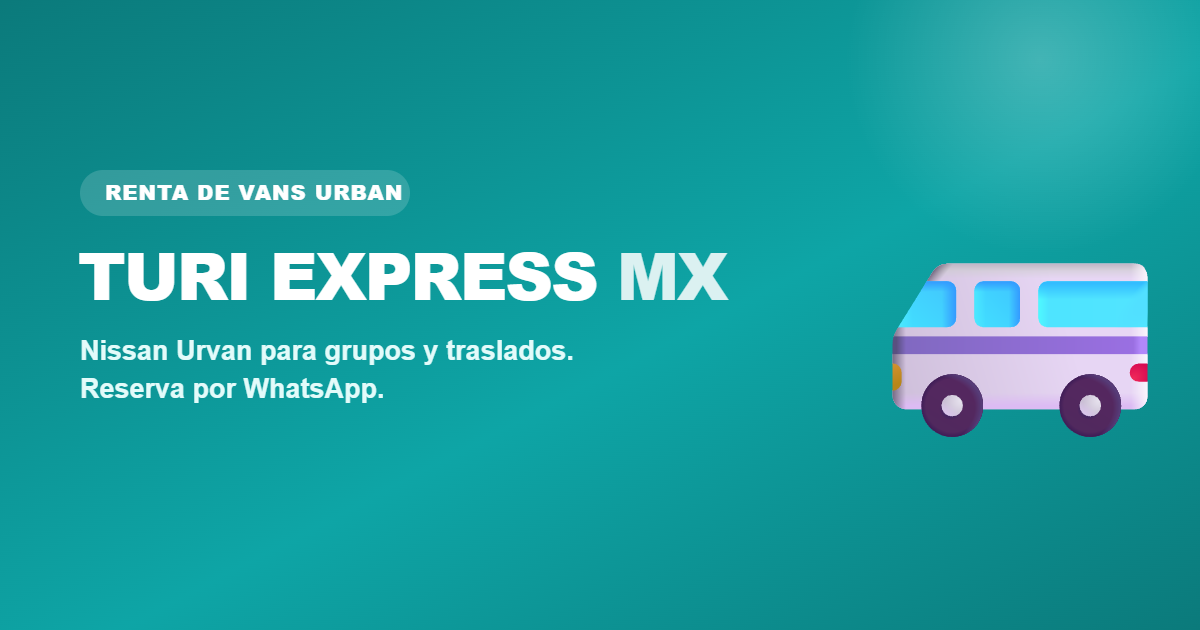
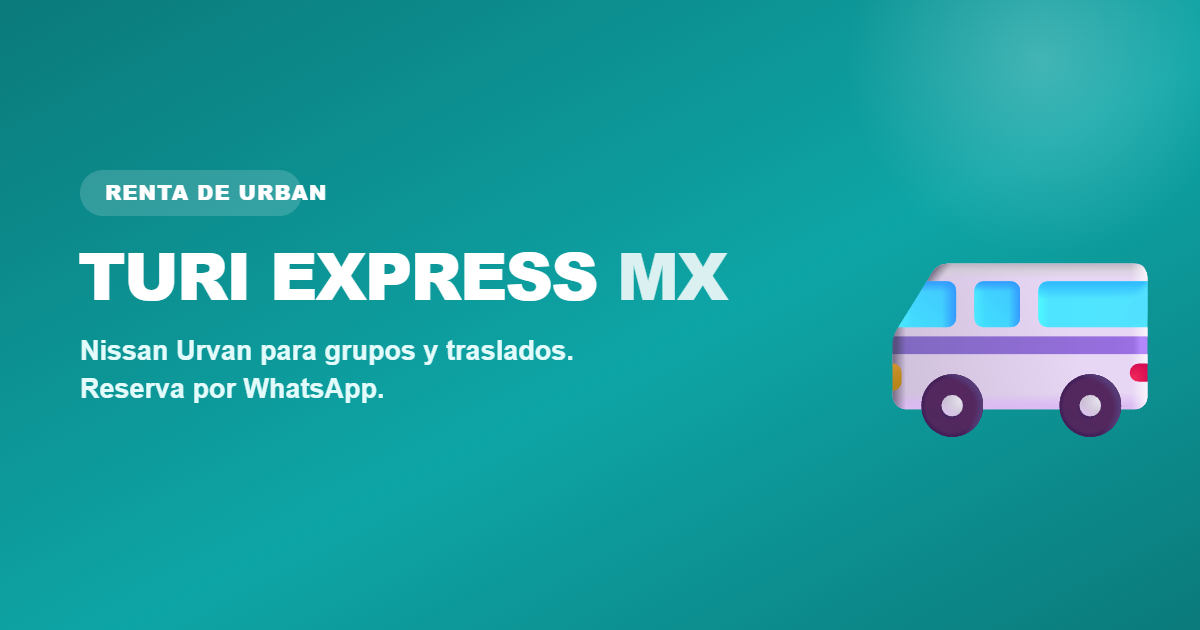
Stop disclosing fleet size and fix invisible outline-button hover
The business does not want to advertise how many units it owns, so the
count is removed everywhere it leaked: the hero tag, the fleet heading
and its three numbered cards, the availability copy, the calendar
tooltips and the terms of service. The fleet section becomes a single
card describing the model, which also drops three identical placeholder
cards. The word "vans" is dropped site-wide, including the baked-in text
of the social preview image.

Also fixes the outline WhatsApp button: .button:hover painted the
background teal while .button-outline pinned the text teal with
!important, so the label vanished on hover.

Changed region(s): [[0.185, 0.2714, 0.3392, 0.3619]]

diff --git a/styles.css b/styles.css
@@ -1,4 +1,4 @@
-:root{--teal:#0b7a7b;--bright:#0ea5a6;--ink:#102426;--muted:#4b6668;--pale:#f4fdfd;--line:#dceeee}*{box-sizing:border-box}html{scroll-behavior:smooth}body{margin:0;font-family:Manrope,Arial,sans-serif;color:var(--ink);line-height:1.55;-webkit-user-select:none;user-select:none}input,textarea{-webkit-user-select:text;user-select:text}img{-webkit-user-drag:none;user-drag:none}.site-header{position:sticky;top:0;z-index:10;display:flex;align-items:center;justify-content:space-between;padding:17px clamp(20px,4vw,56px);background:#fffffff0;backdrop-filter:blur(10px);border-bottom:1px solid var(--line)}.brand{font-size:20px;font-weight:800;letter-spacing:.4px;color:var(--teal);text-decoration:none}.brand span{color:var(--ink)}.main-nav{display:flex;align-items:center;gap:24px}.main-nav a{color:var(--ink);text-decoration:none;font-size:14px;font-weight:700}.main-nav a:hover{color:var(--teal)}.menu-button{display:none;border:0;background:none;font-size:24px}.section-shell{max-width:1200px;margin:auto;padding:78px 28px}.hero{display:grid;grid-template-columns:1.12fr .88fr;align-items:center;gap:64px;min-height:580px}.eyebrow{display:inline-block;margin:0 0 16px;padding:6px 13px;background:#e3f7f7;border-radius:999px;color:var(--teal);font-size:12px;font-weight:800;letter-spacing:.4px}.hero h1{font-size:clamp(40px,5vw,64px);line-height:1.04;letter-spacing:-2px;margin:0 0 20px}.lead,.section-heading>p{color:var(--muted);font-size:17px;max-width:640px}.actions{display:flex;flex-wrap:wrap;gap:12px;margin-top:30px}.button{display:inline-block;border:0;border-radius:999px;background:var(--bright);color:white!important;padding:14px 21px;font:700 14px Manrope;text-decoration:none;cursor:pointer}.button:hover{background:var(--teal)}.button:disabled{background:#fff;border:1.5px solid #9fcfd0;color:var(--ink)!important;cursor:not-allowed}.button:disabled:hover{background:#fff}.button-outline{color:var(--teal)!important;background:white;border:2px solid var(--bright);padding:12px 19px}.button-small{padding:10px 17px}.hero-visual{min-height:390px;border-radius:28px;padding:36px;display:flex;flex-direction:column;align-items:center;justify-content:center;background:linear-gradient(135deg,#c9f1ef,#f5ffff 55%,#a9e5e1);box-shadow:0 22px 54px #08787926;color:var(--teal);overflow:hidden}.van{font-size:160px;filter:drop-shadow(0 20px 13px #0b7a7b33)}.hero-visual p{font-weight:800;text-align:center}.fleet-section{padding-top:36px}.section-heading h2{margin:0 0 8px;font-size:34px;letter-spacing:-1px}.cards{display:grid;grid-template-columns:repeat(3,1fr);gap:22px;margin-top:34px}.card{border:1px solid var(--line);border-radius:20px;padding:22px;box-shadow:0 8px 28px #0e2a2c0a}.vehicle-icon{display:grid;place-items:center;height:150px;margin:-22px -22px 18px;border-radius:20px 20px 0 0;background:#e9f9f8;font-size:76px}.card h3{margin:0;font-size:19px}.card>p{margin:4px 0 14px;color:var(--muted);font-size:14px}.card ul{padding:0;list-style:none;color:var(--muted);font-size:14px}.card li{margin:7px 0}.card li:before{content:'✓';color:var(--teal);font-weight:800;margin-right:8px}.card a{display:block;margin-top:18px;padding:11px;border-radius:9px;background:#e3f7f7;color:var(--teal);font-size:14px;font-weight:800;text-align:center;text-decoration:none}.booking-section{background:linear-gradient(135deg,#effdfc,#d9f6f4)}.booking-section .section-shell{padding-top:70px}.booking-grid{display:grid;grid-template-columns:1.1fr .9fr;gap:24px;margin-top:34px;align-items:start}.calendar-card{background:#ffffff8c;backdrop-filter:blur(18px);-webkit-backdrop-filter:blur(18px);border:1px solid #0ea5a640;border-radius:28px;padding:26px;box-shadow:0 10px 34px #0b7a7b1c}.booking-form{background:#fff;border-radius:22px;padding:26px;box-shadow:0 10px 34px #0b7a7b1c}.calendar-top{display:flex;justify-content:space-between;align-items:center;margin-bottom:18px}.calendar-top h3{margin:0;text-transform:capitalize}.calendar-top button{width:36px;height:36px;border:1px solid var(--line);background:#fff;border-radius:9px;color:var(--teal);font-size:24px;cursor:pointer}.weekdays,.calendar-days{display:grid;grid-template-columns:repeat(7,1fr);gap:7px}.weekdays span{text-align:center;color:var(--muted);font-size:11px;font-weight:800}.day{aspect-ratio:1;border:1px solid #d9eded;border-radius:10px;background:white;color:var(--ink);font:700 13px Manrope;cursor:pointer}.day:hover:not(:disabled){border-color:var(--bright);background:#e8fafa}.day:disabled{opacity:.38;cursor:not-allowed}.day.selected{background:var(--bright);border-color:var(--teal);color:#fff}.day.in-range{background:#dff7f6}.day.blank{visibility:hidden}.calendar-legend{display:flex;gap:16px;flex-wrap:wrap;margin-top:18px;font-size:12px;color:var(--muted)}.calendar-legend span{display:flex;align-items:center;gap:6px}.dot{width:10px;height:10px;border-radius:50%;display:inline-block}.dot-free{background:#fff;border:1px solid #d9eded}.dot-full{background:var(--bright)}.dot-selected{background:#b7e9e7;border:1px solid var(--bright)}.booking-form h3{margin:0 0 4px;font-size:20px}.form-hint{margin:0 0 18px;color:var(--muted);font-size:13px}.text-link{display:inline-block;margin:0 0 16px;border:0;background:none;color:var(--teal);font:700 12px Manrope;text-decoration:underline;cursor:pointer;padding:0}.date-summary{display:grid;grid-template-columns:1fr 1fr;gap:10px;margin-bottom:18px}.date-summary div{padding:10px;border-radius:9px;background:var(--pale)}.date-summary small{display:block;color:var(--muted);font-weight:800;font-size:10px}.date-summary strong{font-size:13px}.booking-form label{display:block;margin:12px 0;color:var(--ink);font-size:13px;font-weight:800}.booking-form input{display:block;width:100%;margin-top:5px;padding:11px 12px;border:1px solid #cfe4e5;border-radius:9px;font:400 14px Manrope}.booking-form input:focus{outline:3px solid #0ea5a633;border-color:var(--bright)}.booking-form .button{width:100%;margin-top:8px}.text-button{display:block;margin:14px auto 0;border:0;background:none;color:var(--teal);font:700 12px Manrope;text-decoration:underline;cursor:pointer}.form-message{min-height:18px;margin:7px 0;color:#b23b3b;font-size:12px;font-weight:700}.fine-print{color:var(--muted);font-size:11px;text-align:center}.requirements-grid{display:grid;grid-template-columns:repeat(4,1fr);gap:16px;margin-top:30px}.requirements-grid article,.policy{border:1px solid var(--line);border-radius:15px;padding:20px}.requirements-grid h3,.policy h3{margin:0 0 6px;color:var(--teal);font-size:15px}.requirements-grid p,.policy p{margin:0;color:var(--muted);font-size:14px}.policy{margin-top:22px}footer{display:grid;grid-template-columns:1.6fr 1fr 1.1fr 1.1fr;gap:26px;padding:55px max(28px,calc((100% - 1144px)/2));background:#102426;color:white}footer .brand{color:#69ceca}footer .brand span{color:white}footer p{margin:8px 0;color:#a7cccd;font-size:14px}footer h3{margin:0;font-size:14px}footer small{grid-column:1/-1;padding-top:18px;border-top:1px solid #284749;color:#87a9aa;font-size:12px}@media(max-width:800px){.menu-button{display:block}.main-nav{display:none;position:absolute;top:100%;right:15px;left:15px;align-items:stretch;flex-direction:column;gap:0;padding:10px;background:#fff;border:1px solid var(--line);border-radius:12px;box-shadow:0 12px 30px #10242622}.main-nav.open{display:flex}.main-nav a{padding:10px}.hero,.booking-grid{grid-template-columns:1fr;gap:30px}.hero{min-height:0}.hero-visual{min-height:260px}.van{font-size:110px}.cards{grid-template-columns:1fr}.requirements-grid{grid-template-columns:1fr 1fr}footer{grid-template-columns:1fr}.section-shell{padding:56px 20px}}@media(max-width:430px){.hero h1{font-size:40px}.requirements-grid{grid-template-columns:1fr}.calendar-card,.booking-form{padding:18px}.day{font-size:11px}}
+:root{--teal:#0b7a7b;--bright:#0ea5a6;--ink:#102426;--muted:#4b6668;--pale:#f4fdfd;--line:#dceeee}*{box-sizing:border-box}html{scroll-behavior:smooth}body{margin:0;font-family:Manrope,Arial,sans-serif;color:var(--ink);line-height:1.55;-webkit-user-select:none;user-select:none}input,textarea{-webkit-user-select:text;user-select:text}img{-webkit-user-drag:none;user-drag:none}.site-header{position:sticky;top:0;z-index:10;display:flex;align-items:center;justify-content:space-between;padding:17px clamp(20px,4vw,56px);background:#fffffff0;backdrop-filter:blur(10px);border-bottom:1px solid var(--line)}.brand{font-size:20px;font-weight:800;letter-spacing:.4px;color:var(--teal);text-decoration:none}.brand span{color:var(--ink)}.main-nav{display:flex;align-items:center;gap:24px}.main-nav a{color:var(--ink);text-decoration:none;font-size:14px;font-weight:700}.main-nav a:hover{color:var(--teal)}.menu-button{display:none;border:0;background:none;font-size:24px}.section-shell{max-width:1200px;margin:auto;padding:78px 28px}.hero{display:grid;grid-template-columns:1.12fr .88fr;align-items:center;gap:64px;min-height:580px}.eyebrow{display:inline-block;margin:0 0 16px;padding:6px 13px;background:#e3f7f7;border-radius:999px;color:var(--teal);font-size:12px;font-weight:800;letter-spacing:.4px}.hero h1{font-size:clamp(40px,5vw,64px);line-height:1.04;letter-spacing:-2px;margin:0 0 20px}.lead,.section-heading>p{color:var(--muted);font-size:17px;max-width:640px}.actions{display:flex;flex-wrap:wrap;gap:12px;margin-top:30px}.button{display:inline-block;border:0;border-radius:999px;background:var(--bright);color:white!important;padding:14px 21px;font:700 14px Manrope;text-decoration:none;cursor:pointer}.button:hover{background:var(--teal)}.button:disabled{background:#fff;border:1.5px solid #9fcfd0;color:var(--ink)!important;cursor:not-allowed}.button:disabled:hover{background:#fff}.button-outline{color:var(--teal)!important;background:white;border:2px solid var(--bright);padding:12px 19px}.button-outline:hover{background:var(--teal);border-color:var(--teal);color:#fff!important}.button-small{padding:10px 17px}.hero-visual{min-height:390px;border-radius:28px;padding:36px;display:flex;flex-direction:column;align-items:center;justify-content:center;background:linear-gradient(135deg,#c9f1ef,#f5ffff 55%,#a9e5e1);box-shadow:0 22px 54px #08787926;color:var(--teal);overflow:hidden}.van{font-size:160px;filter:drop-shadow(0 20px 13px #0b7a7b33)}.hero-visual p{font-weight:800;text-align:center}.fleet-section{padding-top:36px}.section-heading h2{margin:0 0 8px;font-size:34px;letter-spacing:-1px}.fleet-card{display:grid;grid-template-columns:.85fr 1.15fr;margin-top:34px;border:1px solid var(--line);border-radius:22px;overflow:hidden;box-shadow:0 8px 28px #0e2a2c0a}.fleet-visual{display:grid;place-items:center;min-height:280px;background:#e9f9f8;font-size:130px}.fleet-details{padding:34px}.fleet-details h3{margin:0 0 8px;font-size:24px}.fleet-details>p{margin:0 0 20px;color:var(--muted);font-size:15px;max-width:52ch}.fleet-details ul{display:grid;grid-template-columns:1fr 1fr;gap:2px 18px;margin:0 0 26px;padding:0;list-style:none;color:var(--muted);font-size:15px}.fleet-details li{margin:6px 0}.fleet-details li:before{content:'✓';color:var(--teal);font-weight:800;margin-right:8px}.booking-section{background:linear-gradient(135deg,#effdfc,#d9f6f4)}.booking-section .section-shell{padding-top:70px}.booking-grid{display:grid;grid-template-columns:1.1fr .9fr;gap:24px;margin-top:34px;align-items:start}.calendar-card{background:#ffffff8c;backdrop-filter:blur(18px);-webkit-backdrop-filter:blur(18px);border:1px solid #0ea5a640;border-radius:28px;padding:26px;box-shadow:0 10px 34px #0b7a7b1c}.booking-form{background:#fff;border-radius:22px;padding:26px;box-shadow:0 10px 34px #0b7a7b1c}.calendar-top{display:flex;justify-content:space-between;align-items:center;margin-bottom:18px}.calendar-top h3{margin:0;text-transform:capitalize}.calendar-top button{width:36px;height:36px;border:1px solid var(--line);background:#fff;border-radius:9px;color:var(--teal);font-size:24px;cursor:pointer}.weekdays,.calendar-days{display:grid;grid-template-columns:repeat(7,1fr);gap:7px}.weekdays span{text-align:center;color:var(--muted);font-size:11px;font-weight:800}.day{aspect-ratio:1;border:1px solid #d9eded;border-radius:10px;background:white;color:var(--ink);font:700 13px Manrope;cursor:pointer}.day:hover:not(:disabled){border-color:var(--bright);background:#e8fafa}.day:disabled{opacity:.38;cursor:not-allowed}.day.selected{background:var(--bright);border-color:var(--teal);color:#fff}.day.in-range{background:#dff7f6}.day.blank{visibility:hidden}.calendar-legend{display:flex;gap:16px;flex-wrap:wrap;margin-top:18px;font-size:12px;color:var(--muted)}.calendar-legend span{display:flex;align-items:center;gap:6px}.dot{width:10px;height:10px;border-radius:50%;display:inline-block}.dot-free{background:#fff;border:1px solid #d9eded}.dot-full{background:var(--bright)}.dot-selected{background:#b7e9e7;border:1px solid var(--bright)}.booking-form h3{margin:0 0 4px;font-size:20px}.form-hint{margin:0 0 18px;color:var(--muted);font-size:13px}.text-link{display:inline-block;margin:0 0 16px;border:0;background:none;color:var(--teal);font:700 12px Manrope;text-decoration:underline;cursor:pointer;padding:0}.date-summary{display:grid;grid-template-columns:1fr 1fr;gap:10px;margin-bottom:18px}.date-summary div{padding:10px;border-radius:9px;background:var(--pale)}.date-summary small{display:block;color:var(--muted);font-weight:800;font-size:10px}.date-summary strong{font-size:13px}.booking-form label{display:block;margin:12px 0;color:var(--ink);font-size:13px;font-weight:800}.booking-form input{display:block;width:100%;margin-top:5px;padding:11px 12px;border:1px solid #cfe4e5;border-radius:9px;font:400 14px Manrope}.booking-form input:focus{outline:3px solid #0ea5a633;border-color:var(--bright)}.booking-form .button{width:100%;margin-top:8px}.text-button{display:block;margin:14px auto 0;border:0;background:none;color:var(--teal);font:700 12px Manrope;text-decoration:underline;cursor:pointer}.form-message{min-height:18px;margin:7px 0;color:#b23b3b;font-size:12px;font-weight:700}.fine-print{color:var(--muted);font-size:11px;text-align:center}.requirements-grid{display:grid;grid-template-columns:repeat(4,1fr);gap:16px;margin-top:30px}.requirements-grid article,.policy{border:1px solid var(--line);border-radius:15px;padding:20px}.requirements-grid h3,.policy h3{margin:0 0 6px;color:var(--teal);font-size:15px}.requirements-grid p,.policy p{margin:0;color:var(--muted);font-size:14px}.policy{margin-top:22px}footer{display:grid;grid-template-columns:1.6fr 1fr 1.1fr 1.1fr;gap:26px;padding:55px max(28px,calc((100% - 1144px)/2));background:#102426;color:white}footer .brand{color:#69ceca}footer .brand span{color:white}footer p{margin:8px 0;color:#a7cccd;font-size:14px}footer h3{margin:0;font-size:14px}footer small{grid-column:1/-1;padding-top:18px;border-top:1px solid #284749;color:#87a9aa;font-size:12px}@media(max-width:800px){.menu-button{display:block}.main-nav{display:none;position:absolute;top:100%;right:15px;left:15px;align-items:stretch;flex-direction:column;gap:0;padding:10px;background:#fff;border:1px solid var(--line);border-radius:12px;box-shadow:0 12px 30px #10242622}.main-nav.open{display:flex}.main-nav a{padding:10px}.hero,.booking-grid{grid-template-columns:1fr;gap:30px}.hero{min-height:0}.hero-visual{min-height:260px}.van{font-size:110px}.fleet-card{grid-template-columns:1fr}.fleet-visual{min-height:200px;font-size:100px}.fleet-details{padding:26px}.requirements-grid{grid-template-columns:1fr 1fr}footer{grid-template-columns:1fr}.section-shell{padding:56px 20px}}@media(max-width:430px){.hero h1{font-size:40px}.requirements-grid{grid-template-columns:1fr}.calendar-card,.booking-form{padding:18px}.day{font-size:11px}}
 .day.full{background:var(--bright);border-color:var(--teal);color:#fff;opacity:.55}
 .main-nav .staff-open{display:inline;margin:0;font:700 14px Manrope;color:var(--ink);text-decoration:none}
 .main-nav .staff-open:hover{color:var(--teal)}
@@ -43,7 +43,7 @@
 .staff-row-actions .button{padding:8px 14px;font-size:12px}
 .button-danger{border:0;background:#fdecec;color:#b23b3b;padding:8px 14px;border-radius:9px;font:700 12px Manrope;cursor:pointer}
 .badge-pending{display:inline-block;background:#fff3d6;color:#8a5a00;font-size:11px;font-weight:800;padding:2px 8px;border-radius:999px;margin-left:6px}
-@media(max-width:480px){.staff-fields-grid{grid-template-columns:1fr}.modal-panel{padding:20px}}
+@media(max-width:480px){.staff-fields-grid{grid-template-columns:1fr}.modal-panel{padding:20px}.fleet-details ul{grid-template-columns:1fr}}
 .legal-page{max-width:780px;margin:auto;padding:64px 28px 80px}
 .legal-page h1{margin:0 0 6px;font-size:clamp(32px,4vw,44px);letter-spacing:-1.5px}
 .legal-updated{margin:0 0 28px;color:var(--muted);font-size:13px;font-weight:700}

diff --git a/index.html b/index.html
@@ -14,7 +14,7 @@
   <meta property="og:type" content="website">
   <meta property="og:site_name" content="Turi Express MX">
   <meta property="og:title" content="Turi Express MX | Renta de Nissan Urvan">
-  <meta property="og:description" content="Renta vans Nissan Urvan para grupos, traslados y viajes de varios días en México. Confirma tu solicitud por WhatsApp.">
+  <meta property="og:description" content="Renta de Nissan Urvan para grupos, traslados y viajes de varios días en México. Confirma tu solicitud por WhatsApp.">
   <meta property="og:url" content="https://turiexpress.mx/">
   <meta property="og:image" content="https://turiexpress.mx/og-image.png">
   <meta property="og:image:width" content="1200">
@@ -23,7 +23,7 @@
 
   <meta name="twitter:card" content="summary_large_image">
   <meta name="twitter:title" content="Turi Express MX | Renta de Nissan Urvan">
-  <meta name="twitter:description" content="Renta vans Nissan Urvan para grupos, traslados y viajes de varios días en México. Confirma tu solicitud por WhatsApp.">
+  <meta name="twitter:description" content="Renta de Nissan Urvan para grupos, traslados y viajes de varios días en México. Confirma tu solicitud por WhatsApp.">
   <meta name="twitter:image" content="https://turiexpress.mx/og-image.png">
 
   <link rel="preconnect" href="https://fonts.googleapis.com">
@@ -45,25 +45,29 @@
   <main>
     <section id="inicio" class="hero section-shell">
       <div class="hero-copy">
-        <p class="eyebrow">RENTA DE VANS URBAN · 3 UNIDADES</p>
+        <p class="eyebrow">RENTA DE URBAN</p>
         <h1>Tu Nissan Urvan, lista para el próximo viaje.</h1>
-        <p class="lead">Renta vans para grupos, traslados y viajes de varios días. Elige tus fechas y confirma tu solicitud directamente por WhatsApp.</p>
+        <p class="lead">Renta tu Nissan Urvan para grupos, traslados y viajes de varios días. Elige tus fechas y confirma tu solicitud directamente por WhatsApp.</p>
         <div class="actions"><a class="button" href="#disponibilidad">Ver disponibilidad</a><a class="button button-outline whatsapp-link" data-message="Hola, quisiera cotizar una Nissan Urvan." target="_blank" rel="noopener">Escríbenos por WhatsApp</a></div>
       </div>
       <div class="hero-visual" role="img" aria-label="Nissan Urvan para renta"><div class="van">🚐</div><p>Traslados cómodos para hasta 15 pasajeros</p></div>
     </section>
 
     <section id="flota" class="section-shell fleet-section">
-      <div class="section-heading"><div><p class="eyebrow">NUESTRA FLOTA</p><h2>Tres unidades listas para rodar</h2><p>Las Nissan Urvan cuentan con espacio y comodidad para cada traslado.</p></div></div>
-      <div class="cards">
-        <article class="card"><div class="vehicle-icon">🚐</div><h3>Nissan Urvan 01</h3><p>Disponible para renta</p><ul><li>Hasta 15 pasajeros</li><li>Aire acondicionado</li><li>Transmisión manual</li><li>Bluetooth</li></ul><a href="#disponibilidad">Consultar fechas</a></article>
-        <article class="card"><div class="vehicle-icon">🚐</div><h3>Nissan Urvan 02</h3><p>Disponible para renta</p><ul><li>Hasta 15 pasajeros</li><li>Aire acondicionado</li><li>Transmisión manual</li><li>Bluetooth</li></ul><a href="#disponibilidad">Consultar fechas</a></article>
-        <article class="card"><div class="vehicle-icon">🚐</div><h3>Nissan Urvan 03</h3><p>Disponible para renta</p><ul><li>Hasta 15 pasajeros</li><li>Aire acondicionado</li><li>Transmisión manual</li><li>Bluetooth</li></ul><a href="#disponibilidad">Consultar fechas</a></article>
-      </div>
+      <div class="section-heading"><div><p class="eyebrow">NUESTRA FLOTA</p><h2>Nissan Urvan, lista para tu grupo</h2><p>Espacio, comodidad y aire acondicionado para cada traslado.</p></div></div>
+      <article class="fleet-card">
+        <div class="fleet-visual" role="img" aria-label="Nissan Urvan">🚐</div>
+        <div class="fleet-details">
+          <h3>Nissan Urvan</h3>
+          <p>Nuestra flota está integrada por unidades Nissan Urvan, ideales para grupos, traslados al aeropuerto y viajes de varios días.</p>
+          <ul><li>Hasta 15 pasajeros</li><li>Aire acondicionado</li><li>Transmisión manual</li><li>Bluetooth</li></ul>
+          <a class="button" href="#disponibilidad">Consultar fechas</a>
+        </div>
+      </article>
     </section>
 
     <section id="disponibilidad" class="booking-section">
-      <div class="section-shell"><div class="section-heading"><p class="eyebrow">DISPONIBILIDAD</p><h2>Disponibilidad y solicitud de renta</h2><p>Las 3 unidades son la misma Nissan Urvan. Revisa el calendario y elige tus fechas: si una está ocupada, te asignamos otra libre automáticamente.</p></div>
+      <div class="section-shell"><div class="section-heading"><p class="eyebrow">DISPONIBILIDAD</p><h2>Disponibilidad y solicitud de renta</h2><p>Todas nuestras unidades son Nissan Urvan. Revisa el calendario y elige tus fechas: si una está ocupada, te asignamos otra libre automáticamente.</p></div>
         <div class="booking-grid"><div class="calendar-card"><div class="calendar-top"><button id="previous-month" aria-label="Mes anterior">‹</button><h3 id="calendar-title"></h3><button id="next-month" aria-label="Mes siguiente">›</button></div><div class="weekdays"><span>Lun</span><span>Mar</span><span>Mié</span><span>Jue</span><span>Vie</span><span>Sáb</span><span>Dom</span></div><div id="calendar-days" class="calendar-days" aria-live="polite"></div><div class="calendar-legend"><span><i class="dot dot-free"></i>Disponible</span><span><i class="dot dot-full"></i>Ocupado</span><span><i class="dot dot-selected"></i>Tu selección</span></div></div>
           <form id="booking-form" class="booking-form"><h3>Solicita tu Nissan Urvan</h3><p class="form-hint">Da clic en el calendario: primero tu fecha de inicio, luego la de fin.</p><div class="date-summary"><div><small>INICIO</small><strong id="start-display">Elige una fecha</strong></div><div><small>FIN</small><strong id="end-display">Elige una fecha</strong></div></div><button id="clear-dates" class="text-link" type="button">Elegir de nuevo</button><label>Tu nombre<input id="name" name="name" autocomplete="name" placeholder="Ej. Juan Pérez" required></label><label>Tu teléfono (WhatsApp)<input id="phone" name="phone" autocomplete="tel" inputmode="tel" placeholder="Ej. 33 1234 5678" required></label><p id="form-message" class="form-message" role="alert"></p><button class="button" type="submit" id="submit-request" disabled>Apartar y enviar por WhatsApp</button><p id="submit-hint" class="fine-print">Elige tus fechas y escribe tu nombre y teléfono.</p><p class="consent-note">Al enviar tu solicitud aceptas nuestros <a href="terminos.html">Términos y Condiciones</a> y el <a href="aviso-privacidad.html">Aviso de Privacidad</a>. Usamos tu nombre y teléfono solo para confirmar tu renta, no los compartimos con terceros y los eliminamos 12 meses después.</p></form></div>
       </div>
@@ -71,7 +75,7 @@
 
     <section id="requisitos" class="section-shell requirements"><div class="section-heading"><p class="eyebrow">ANTES DE RENTAR</p><h2>Requisitos sencillos, viaje tranquilo</h2></div><div class="requirements-grid"><article><h3>Edad mínima</h3><p>25 años cumplidos.</p></article><article><h3>Licencia vigente</h3><p>Licencia de conducir no vencida.</p></article><article><h3>Identificación oficial</h3><p>INE o pasaporte vigente.</p></article><article><h3>Depósito en garantía</h3><p>Reembolsable al devolver la unidad.</p></article></div><div class="policy"><h3>Políticas de uso</h3><p>La unidad se entrega y se devuelve con el mismo nivel de combustible. El kilometraje es libre dentro del área metropolitana. Las fechas y horario de entrega se confirman por WhatsApp.</p></div></section>
   </main>
-  <footer id="contacto"><div><a class="brand" href="#inicio">TURI EXPRESS <span>MX</span></a><p>Renta de vans Nissan Urvan para grupos y traslados.</p></div><div><h3>Horario</h3><p>Lun–Dom · 8:00–20:00</p></div><div><h3>¿Listo para viajar?</h3><a class="button whatsapp-link" data-message="Hola, quisiera información sobre la renta de una Nissan Urvan." target="_blank" rel="noopener">Hablar por WhatsApp</a></div><div><h3>Legal</h3><p><a class="footer-link" href="aviso-privacidad.html">Aviso de privacidad</a></p><p><a class="footer-link" href="terminos.html">Términos y condiciones</a></p><p><button type="button" class="text-button staff-open footer-staff-open">Acceso de personal</button></p></div><small>© <span id="year"></span> TURI EXPRESS MX. Todos los derechos reservados.</small></footer>
+  <footer id="contacto"><div><a class="brand" href="#inicio">TURI EXPRESS <span>MX</span></a><p>Renta de Nissan Urvan para grupos y traslados.</p></div><div><h3>Horario</h3><p>Lun–Dom · 8:00–20:00</p></div><div><h3>¿Listo para viajar?</h3><a class="button whatsapp-link" data-message="Hola, quisiera información sobre la renta de una Nissan Urvan." target="_blank" rel="noopener">Hablar por WhatsApp</a></div><div><h3>Legal</h3><p><a class="footer-link" href="aviso-privacidad.html">Aviso de privacidad</a></p><p><a class="footer-link" href="terminos.html">Términos y condiciones</a></p><p><button type="button" class="text-button staff-open footer-staff-open">Acceso de personal</button></p></div><small>© <span id="year"></span> TURI EXPRESS MX. Todos los derechos reservados.</small></footer>
 
   <div id="staff-modal" class="modal-overlay" hidden>
     <div class="modal-panel">

diff --git a/terminos.html b/terminos.html
@@ -31,10 +31,10 @@
     <h1>Términos y Condiciones</h1>
     <p class="legal-updated">Última actualización: 16 de septiembre de 2026</p>
 
-    <p class="legal-lead">Estos términos aplican al servicio de renta de vans Nissan Urvan que ofrece Turi Express MX y al uso de este sitio web. Al enviar una solicitud de renta, aceptas lo que se describe aquí.</p>
+    <p class="legal-lead">Estos términos aplican al servicio de renta de Nissan Urvan que ofrece Turi Express MX y al uso de este sitio web. Al enviar una solicitud de renta, aceptas lo que se describe aquí.</p>
 
     <h2>1. Sobre el servicio</h2>
-    <p>Turi Express MX, con domicilio en Mérida, Yucatán, ofrece el arrendamiento de vehículos tipo Nissan Urvan para traslados, grupos y viajes de varios días. Actualmente operamos con 3 unidades del mismo modelo.</p>
+    <p>Turi Express MX, con domicilio en Mérida, Yucatán, ofrece el arrendamiento de vehículos tipo Nissan Urvan para traslados, grupos y viajes de varios días.</p>
 
     <h2>2. Una solicitud no es una reserva confirmada</h2>
     <p>Este es el punto más importante: cuando envías el formulario del sitio, <strong>apartas provisionalmente</strong> las fechas seleccionadas, pero <strong>tu renta todavía no está confirmada</strong>.</p>
@@ -97,7 +97,7 @@
   <footer id="contacto">
     <div>
       <a class="brand" href="index.html">TURI EXPRESS <span>MX</span></a>
-      <p>Renta de vans Nissan Urvan para grupos y traslados.</p>
+      <p>Renta de Nissan Urvan para grupos y traslados.</p>
     </div>
     <div>
       <h3>Horario</h3>

diff --git a/app.js b/app.js
@@ -60,7 +60,7 @@ function renderCalendar() {
     const button = document.createElement('button');
     button.type = 'button'; button.className = 'day'; button.textContent = n;
     button.disabled = date < today || fullyBooked;
-    button.title = date < today ? 'Fecha pasada' : (fullyBooked ? 'Sin unidades disponibles' : `${freeCount} de 3 unidades libres`);
+    button.title = date < today ? 'Fecha pasada' : (fullyBooked ? 'Sin unidades disponibles' : 'Disponible');
     if ((state.start && iso(date) === iso(state.start)) || (state.end && iso(date) === iso(state.end))) button.classList.add('selected');
     if (isBetween(date)) button.classList.add('in-range');
     if (fullyBooked) button.classList.add('full');

diff --git a/aviso-privacidad.html b/aviso-privacidad.html
@@ -103,7 +103,7 @@
   <footer id="contacto">
     <div>
       <a class="brand" href="index.html">TURI EXPRESS <span>MX</span></a>
-      <p>Renta de vans Nissan Urvan para grupos y traslados.</p>
+      <p>Renta de Nissan Urvan para grupos y traslados.</p>
     </div>
     <div>
       <h3>Horario</h3>
